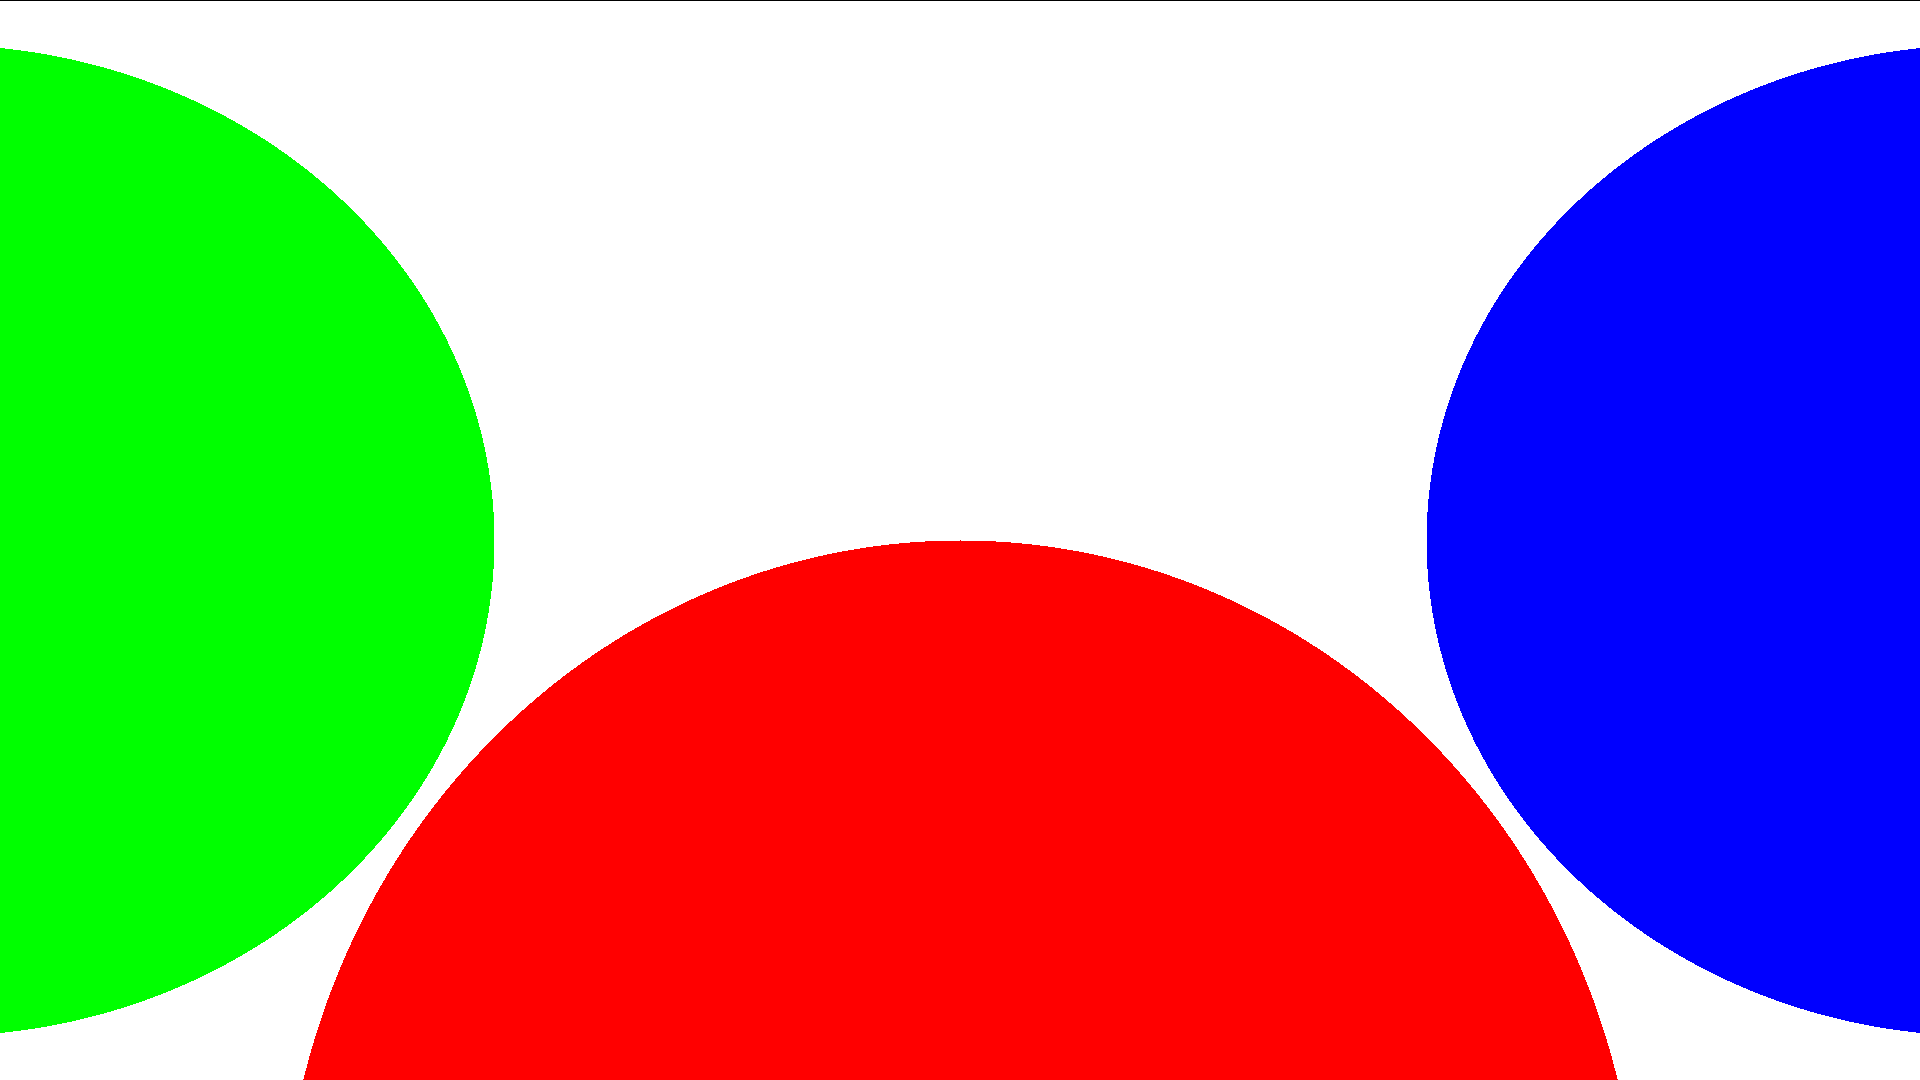
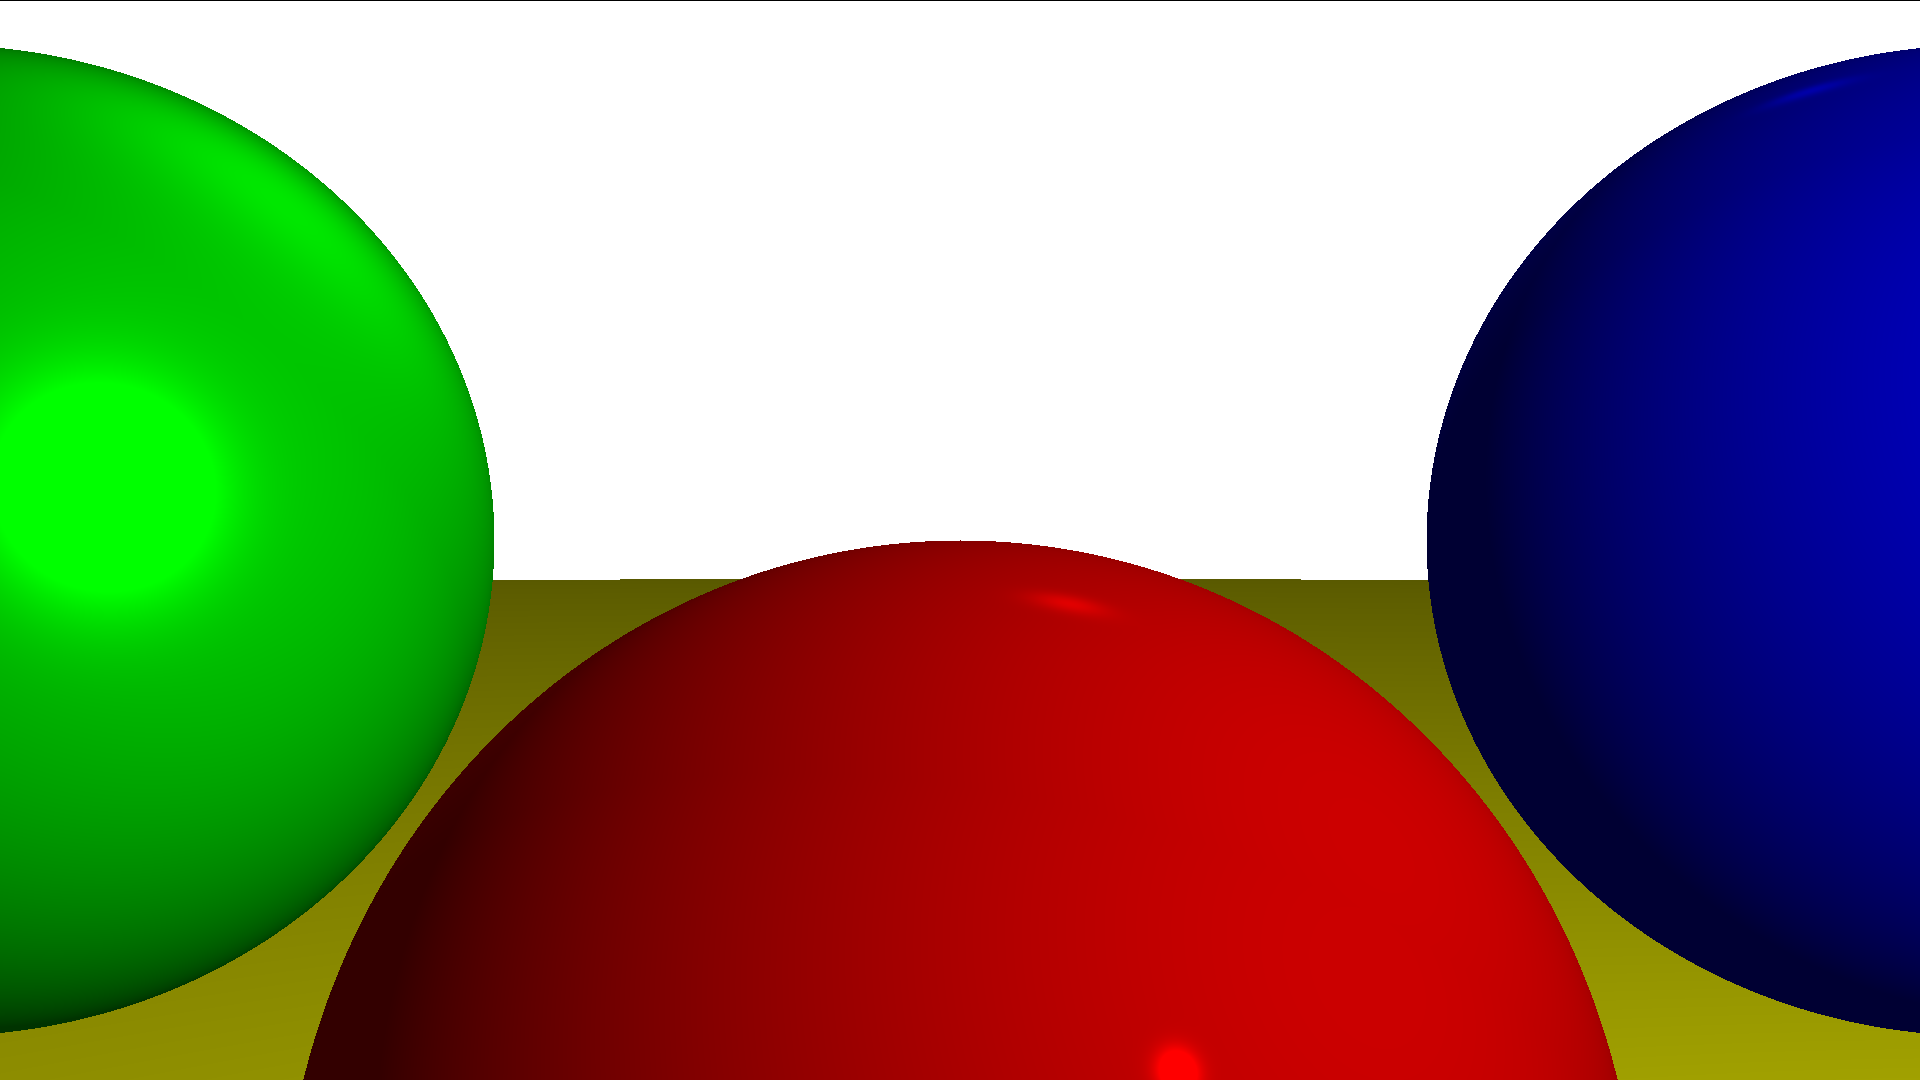
Light Chapter

diff --git a/main.py b/main.py
@@ -4,7 +4,7 @@ import math
 from pyray import Vector3
 from PIL import Image
 
-BACKGROUND_COLOR = (255,255,255)
+
 inf = math.inf
 Cw = 1920
 Ch = 1080
@@ -14,11 +14,33 @@ Vh=Vw * Ch / Cw
 d=1
 
 class Sphere:
-    def __init__(self,center,radius,color):
+    def __init__(self,center,radius,color,specular):
         self.center = center
         self.radius = radius
         self.color = color
+        self.specular = specular
 
+class Light: 
+    def __init__(self,type,intensity,position,direction):
+        self.type = type
+        self.intensity = intensity
+        self.position = position
+        self.direction = direction
+
+class Color:
+    def __init__(self,r,g,b):
+        self.r=r
+        self.g=g
+        self.b=b
+
+    def to_tuple(self):
+        return (
+            min(255, max(0, int(self.r))),
+            min(255, max(0, int(self.g))),
+            min(255, max(0, int(self.b)))
+        )
+    
+BACKGROUND_COLOR = Color(255,255,255)
 
 class Canva:
     def __init__(self,width,height):
@@ -29,11 +51,11 @@ class Canva:
             for _ in range(height)
         ]
 
-    def putPixel(self,x,y,color):
+    def putPixel(self,x,y,color_tuple):
         Sx = Cw//2 + x
         Sy = Ch//2 -y
         if (0 <= Sx < self.width and 0 <= Sy < self.height):
-            self.pixels[Sy][Sx] = color
+            self.pixels[Sy][Sx] = color_tuple
 
     def savePNG(self, filename):
         # Crée une image vide
@@ -55,7 +77,7 @@ def cross_product(A, B):
 
 def vector_length(vector):
     """Calcule la longueur d'un vecteur."""
-    return math.sqrt(dot_product(vector))
+    return math.sqrt(dot_product(vector,vector))
 
 def vector_normalize(vector):
     """Normalise un vecteur pour obtenir un vecteur de longueur 1."""   
@@ -90,9 +112,33 @@ def IntersectRaySphere(O, D, sphere) :
     t2 = (-b - math.sqrt(discriminant)) / (2*a)
     return t1, t2
 
+def ComputeLighting(P, N,V,lights,s):
+    i = 0.0
+    for light in lights :
+        if (light.type == "ambient"):
+            i += light.intensity
+        else: 
+            if (light.type == "point"):
+               #L = light.position - P
+               L= Vector3( light.position.x - P.x, light.position.y -P.y, light.position.z - P.z)
+            else:
+               L = light.direction
+            
+            #Diffuse
+            n_dot_l = dot_product(N, L)
+            if (n_dot_l > 0):
+               i += light.intensity * n_dot_l/(vector_length(N) * vector_length(L))
+
+            #Specular
+            if (s != -1) : #for matte shapes
+                R = Vector3(2 * N.x * dot_product(N, L) - L.x,2 * N.y * dot_product(N, L) - L.y,2 * N.z * dot_product(N, L) - L.z)
+                r_dot_v = dot_product(R, V)
+                if r_dot_v > 0 :
+                    i += light.intensity * math.pow(r_dot_v/(vector_length(R) * vector_length(V)), s)
+    return i
 
 
-def TraceRay(O, D, t_min, t_max,scene) :
+def TraceRay(O, D, t_min, t_max,scene,lights) :
     closest_t = inf
     closest_sphere = None
     for sphere in scene :
@@ -108,23 +154,43 @@ def TraceRay(O, D, t_min, t_max,scene) :
     if (closest_sphere == None) :
         return BACKGROUND_COLOR
     
-    return closest_sphere.color
+    #P = O + closest_t * D  # Compute intersection
+    P = Vector3(O.x + closest_t *  D.x,
+             O.y + closest_t * D.y,
+             O.z + closest_t * D.z)
+    #N = P - closest_sphere.cente
+    N = Vector3(P.x - closest_sphere.center.x,
+             P.y - closest_sphere.center.y,
+             P.z - closest_sphere.center.z)  # Compute sphere normal at intersection
+        
+    N = vector_normalize(N)
+    V = Vector3(-D.x, -D.y, -D.z)
+    i=ComputeLighting(P, N, V,lights,closest_sphere.specular)
+    light_color = Color(closest_sphere.color.r * i,closest_sphere.color.g * i,closest_sphere.color.b * i)
+    return light_color
+    
+
 
 
 def main():
     canvas = Canva(Cw,Ch)
-    sphere1 =  Sphere(Vector3(0, -1, 3), 1, (255, 0, 0)) #Red
-    sphere2 =  Sphere(Vector3(2, 0, 4),1,(0, 0, 255))  # Blue
-    sphere3 =  Sphere(Vector3(-2, 0, 4),1,(0, 255, 0))  # Blue
-    scene = [sphere1,sphere2,sphere3]
+    sphere1 =  Sphere(Vector3(0, -1, 3), 1, Color(255, 0, 0),500) #Red (Shiny)
+    sphere2 =  Sphere(Vector3(2, 0, 4),1,Color(0, 0, 255)  ,500)  # Blue (Shiny)
+    sphere3 =  Sphere(Vector3(-2, 0, 4),1,Color(0, 255, 0),10)  # Blue (somewhat shiny)
+    sphere4 =  Sphere(Vector3(0, -5001, 0),5000 ,Color(255, 255, 0), 1000)  # Yellow (very shiny)
+    scene = [sphere1, sphere2, sphere3,sphere4]
+    light1 = Light("ambient", 0.2,None,None)
+    light2 = Light("point", 0.6, Vector3(2, 1, 0), None) 
+    light3 = Light("directional", 0.2, None, Vector3(1, 4, 4)) 
+    lights = [light1,light2,light3]
     
     print("Hello from raytracer-project!")
     O = Vector3(0, 0, 0)
     for i in range(-Cw//2 , Cw//2) : 
         for j in range (-Ch//2 , Ch//2):
             D = CanvasToViewport(i, j)
-            color = TraceRay(O, D, 1, inf,scene)
-            canvas.putPixel(i, j, color)
+            color = TraceRay(O, D, 1, inf,scene,lights)
+            canvas.putPixel(i, j, color.to_tuple())
     canvas.savePNG("output.png")
     print("Image saved as output.png")    
 
